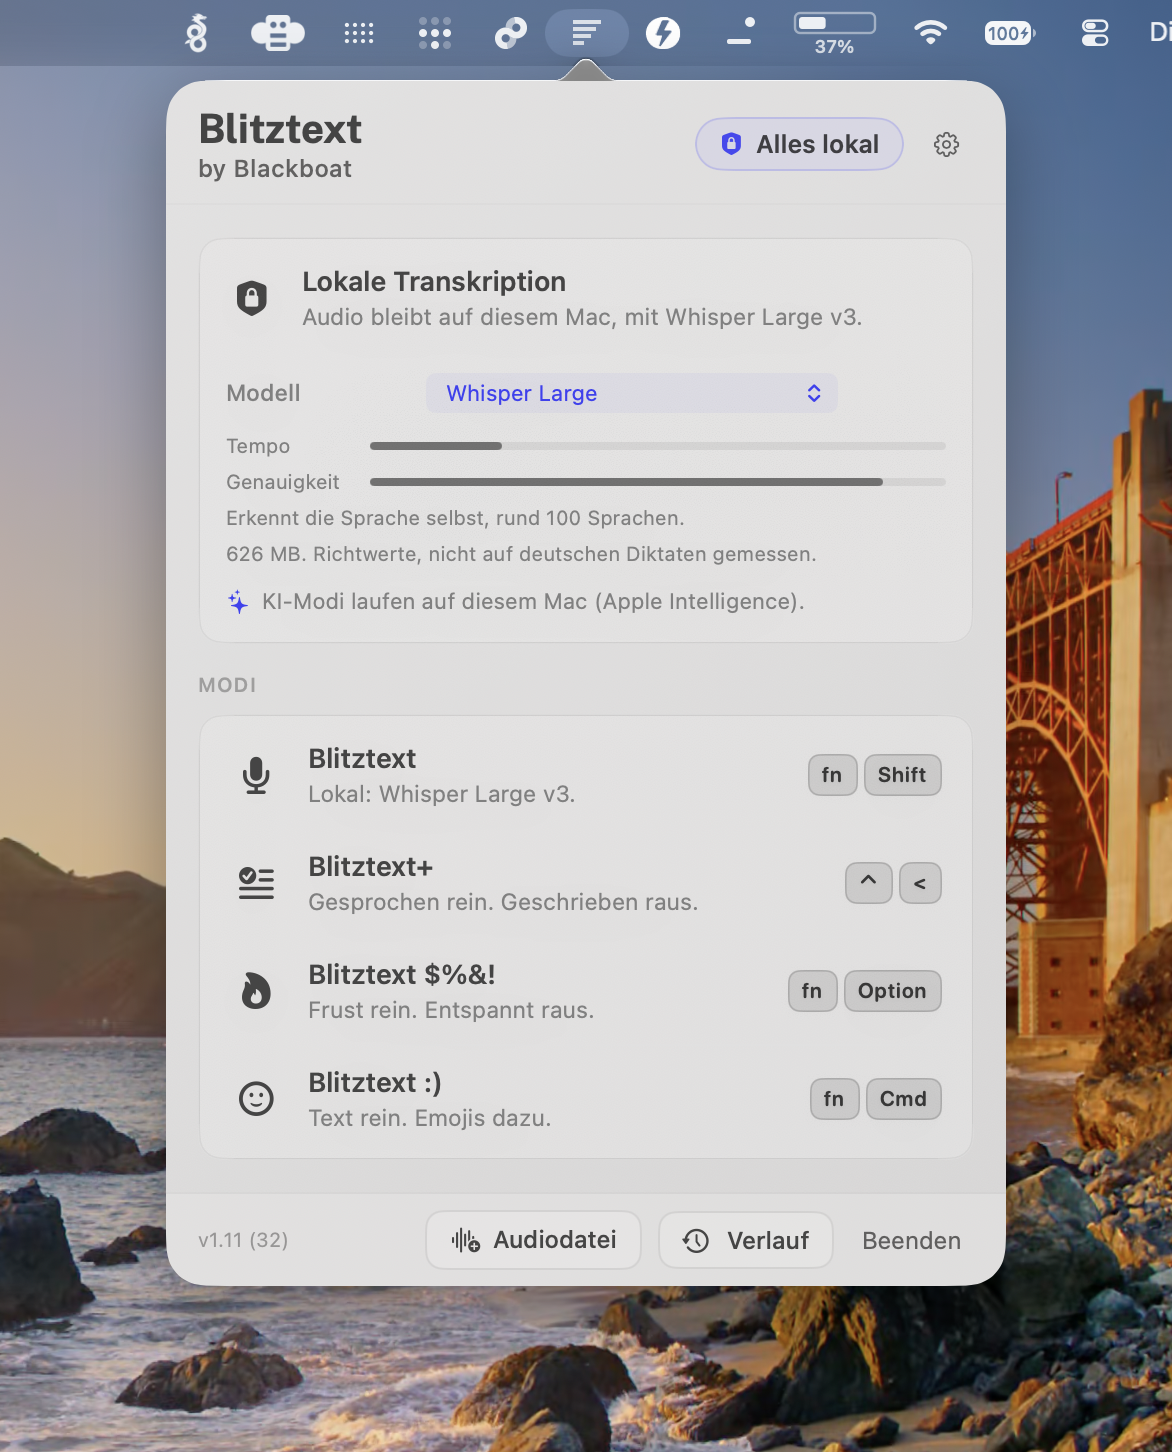
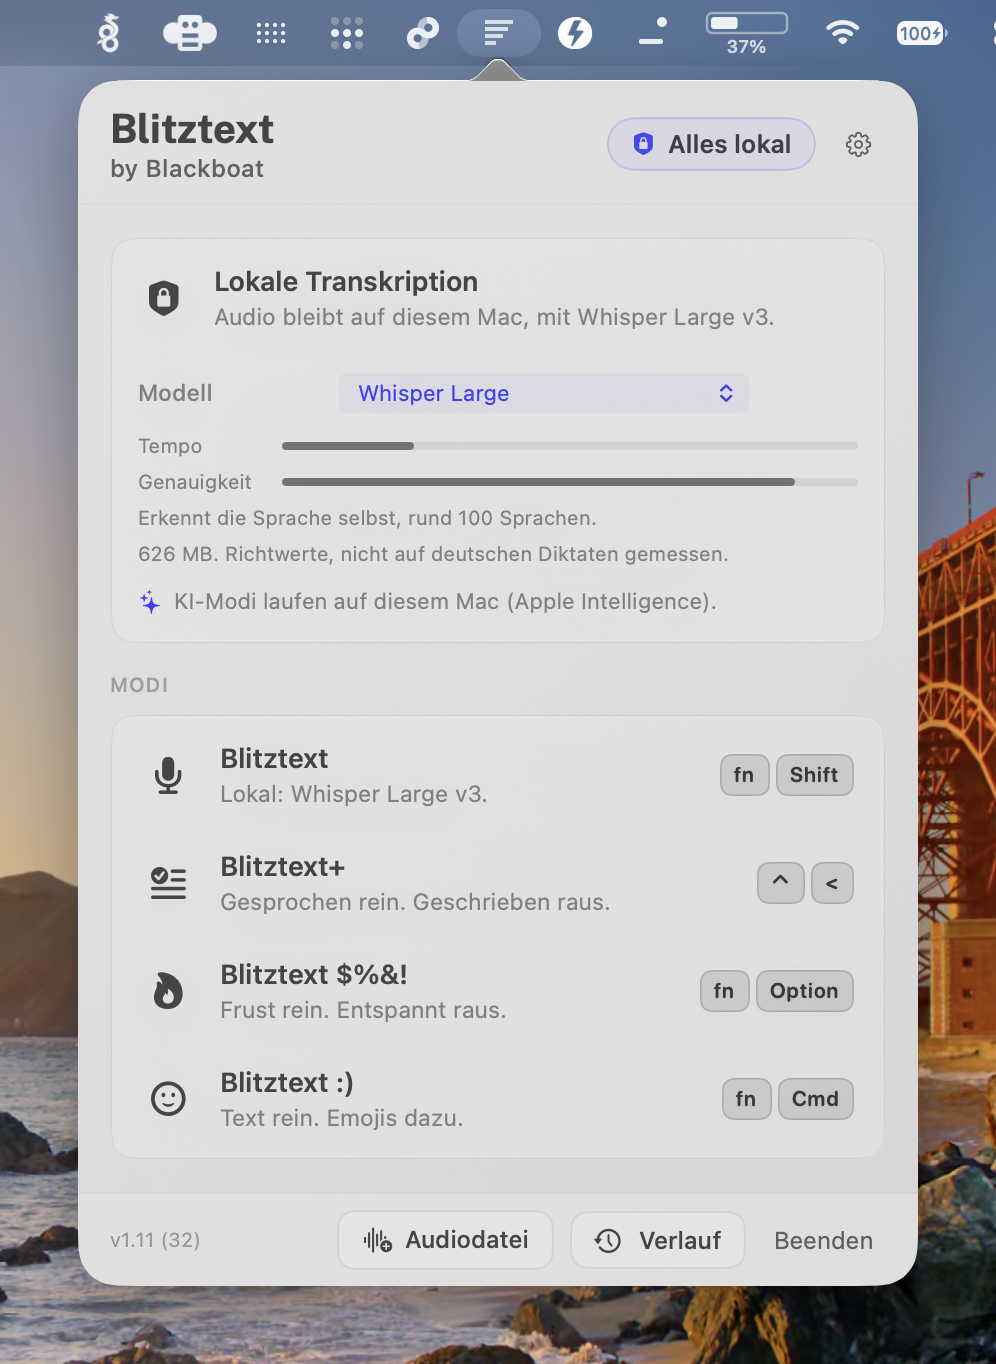
Review fixes for the 1.11 release candidate, build 34
- Safe move to /Applications (copy next to the target, swap in one
  step), not offered on Jamf-managed Macs.
- Pipeline overview names the text at the cursor when the AI modes get it.
- CI runs the unit tests, not only the build.
- README: honest download steps, a note on the personal shortcut in the
  screenshots, captions that match the images, Jamf limitation.
- Screenshots cropped closer to the window.

Claude-Session: https://claude.ai/code/session_01SVtM74YHGzCBwWJF2Ms7gu

diff --git a/BlitztextMac/Services/BlitztextInstallLocationService.swift b/BlitztextMac/Services/BlitztextInstallLocationService.swift
@@ -75,8 +75,16 @@ enum BlitztextInstallLocationService {
         return .unknown
     }
 
+    /// Jamf installs Blitztext into /Applications on managed Macs. There the app neither
+    /// moves itself nor updates itself; device management does both.
+    static let isManagedByJamf: Bool = {
+        let fileManager = FileManager.default
+        return fileManager.fileExists(atPath: "/usr/local/jamf/bin/jamf")
+            || fileManager.fileExists(atPath: "/Library/Application Support/JAMF")
+    }()
+
     static var shouldOfferMoveToApplications: Bool {
-        !currentInstallLocation.isCanonicalInstall
+        !currentInstallLocation.isCanonicalInstall && !isManagedByJamf
     }
 
     static var systemApplicationsDirectoryURL: URL {
@@ -133,20 +141,33 @@ enum BlitztextInstallLocationService {
 
         try ensureDirectoryExists(at: destinationDirectoryURL)
 
-        if FileManager.default.fileExists(atPath: destinationURL.path) {
-            guard replacingExisting else {
-                throw MoveError.destinationExists(destinationURL)
-            }
-            try FileManager.default.removeItem(at: destinationURL)
-        }
-
-        guard FileManager.default.isWritableFile(atPath: destinationDirectoryURL.path) else {
+        let fileManager = FileManager.default
+        guard fileManager.isWritableFile(atPath: destinationDirectoryURL.path) else {
             throw MoveError.destinationNotWritable(destinationDirectoryURL)
         }
 
+        let destinationExists = fileManager.fileExists(atPath: destinationURL.path)
+        if destinationExists && !replacingExisting {
+            throw MoveError.destinationExists(destinationURL)
+        }
+
+        // Copy next to the destination first and swap in one step, so a failed copy
+        // never costs the installation that works.
+        let stagingURL = destinationDirectoryURL
+            .appendingPathComponent(".\(sourceURL.lastPathComponent).incoming-\(UUID().uuidString)")
         do {
-            try FileManager.default.copyItem(at: sourceURL, to: destinationURL)
+            try fileManager.copyItem(at: sourceURL, to: stagingURL)
+            let executable = stagingURL.appendingPathComponent("Contents/MacOS")
+            guard fileManager.fileExists(atPath: executable.path) else {
+                throw CocoaError(.fileReadCorruptFile)
+            }
+            if destinationExists {
+                _ = try fileManager.replaceItemAt(destinationURL, withItemAt: stagingURL)
+            } else {
+                try fileManager.moveItem(at: stagingURL, to: destinationURL)
+            }
         } catch {
+            try? fileManager.removeItem(at: stagingURL)
             throw MoveError.copyFailed(source: sourceURL, destination: destinationURL, underlying: error)
         }
 

diff --git a/BlitztextMac/Features/Settings/PipelineOverviewSection.swift b/BlitztextMac/Features/Settings/PipelineOverviewSection.swift
@@ -12,7 +12,7 @@ struct PipelineOverviewSection: View {
                 model: appState.selectedLocalModelDisplayName,
                 detail: appState.selectedLocalModelIsInstalled
                     ? "Immer lokal auf diesem Mac. Die Sprache verl\u{00E4}sst ihn nie."
-                    : "Noch nicht installiert. Unten unter Lokale Transkription laden.",
+                    : "Noch nicht installiert. Unter Modelle, Spracherkennung laden.",
                 ready: appState.selectedLocalModelIsInstalled
             )
             row(
@@ -40,7 +40,10 @@ struct PipelineOverviewSection: View {
             return "Lokal auf diesem Mac, ohne Internet."
         }
         if appState.providerInUse != nil {
-            return "\u{00DC}ber deinen API-Key. Nur der erkannte Text geht an den Anbieter, nie die Sprache."
+            // Must match the setting: with cursor context on, that text goes along too.
+            return appState.appSettings.aiSeesFieldContext
+                ? "\u{00DC}ber deinen API-Key. Der erkannte Text und der Text am Cursor gehen an den Anbieter, nie die Sprache."
+                : "\u{00DC}ber deinen API-Key. Nur der erkannte Text geht an den Anbieter, nie die Sprache."
         }
         return "Apple Intelligence einschalten oder unter Modelle einen Modell-Anbieter mit API-Key hinterlegen. Wortgenaues Diktieren geht auch ohne."
     }

diff --git a/BlitztextMac/Features/Settings/AppModeRulesSection.swift b/BlitztextMac/Features/Settings/AppModeRulesSection.swift
@@ -41,7 +41,7 @@ struct AppModeRulesSection: View {
 
     var body: some View {
         SettingsSection(title: "Modus je App") {
-            Text("Das Blitztext-K\u{00FC}rzel (\(appState.hotkeyLabel(for: .tapTalk))) kann je App oder Website automatisch einen anderen Modus nutzen, zum Beispiel Blitztext+ in Gmail, w\u{00E4}hrend es in Slack wortgenau bleibt. Die \u{00FC}brigen K\u{00FC}rzel bleiben wie sie sind.")
+            Text("Das Blitztext-K\u{00FC}rzel (\(appState.hotkeyLabel(for: .tapTalk))) kann je App oder Website automatisch einen anderen Modus nutzen, zum Beispiel Blitztext+ in Gmail. \u{00DC}berall sonst bleibt es wortgenau, und die \u{00FC}brigen K\u{00FC}rzel bleiben wie sie sind.")
                 .font(.system(size: 10.5))
                 .foregroundStyle(.secondary)
                 .fixedSize(horizontal: false, vertical: true)

diff --git a/BlitztextMac/Services/AppUpdateService.swift b/BlitztextMac/Services/AppUpdateService.swift
@@ -56,12 +56,9 @@ final class AppUpdateService {
     }
 
     /// Jamf installs Blitztext on managed Macs. Sparkle stays off there, so nobody gets a
-    /// second update channel or an admin password prompt.
-    let isManagedByDeviceManagement: Bool = {
-        let fileManager = FileManager.default
-        return fileManager.fileExists(atPath: "/usr/local/jamf/bin/jamf")
-            || fileManager.fileExists(atPath: "/Library/Application Support/JAMF")
-    }()
+    /// second update channel or an admin password prompt. This applies to the whole Mac,
+    /// also to a copy installed by hand.
+    let isManagedByDeviceManagement = BlitztextInstallLocationService.isManagedByJamf
 
     /// Sparkle runs: the build has a feed and key, and no device management does the job.
     var updatesInApp: Bool {

diff --git a/README.md b/README.md
@@ -71,13 +71,13 @@ Keyboards without `fn`: set your own shortcut per mode in the settings.
 | | |
 |---|---|
 | <img src="docs/screenshots/settings-models.png" width="400" alt="Settings, Modelle: local speech recognition and the AI modes"> | <img src="docs/screenshots/settings-general.png" width="400" alt="Settings, Allgemein: how Blitztext works, shortcuts, sound off while recording"> |
-| Speech recognition and AI modes on your Mac | Shortcuts, sound off while recording, cursor fit |
+| Speech recognition and AI modes on your Mac | How Blitztext works, shortcuts, sound off while recording |
 
-The app is in German for now.
+The app is in German for now. The screenshots show a personal shortcut for Blitztext+ (`⌃<`) instead of `fn + Control`.
 
 ## Install
 
-1. [Download the ZIP](https://github.com/cmagnussen/blitztext-app/releases/latest), unpack it and move **Blitztext.app** to **Applications**.
+1. Open the [latest release](https://github.com/cmagnussen/blitztext-app/releases/latest), download the ZIP under "Assets", unpack it and move **Blitztext.app** to **Applications**.
 2. Open Blitztext. It lives in the menu bar.
 3. Allow **Microphone** and **Accessibility** (needed to paste into other apps).
 4. In the settings (**Modelle**), load a local speech model once. Parakeet v3 is recommended on Apple silicon, about 500 MB.
@@ -103,6 +103,7 @@ Blitztext has no backend and collects no data. Details in [docs/privacy.md](docs
 - **Paste stops after an update or a rebuild:** open System Settings > Privacy & Security > Accessibility, remove the old Blitztext entry, add the current app and restart it.
 - **First dictation after a macOS update** can take a few minutes while macOS prepares the model for the Neural Engine. Blitztext shows a hint; keep it running.
 - **Whisper on silence** sometimes invents phrases like "Thank you." Blitztext filters the known ones.
+- **Macs managed with Jamf:** in-app updates are off on the whole Mac, also for a copy you installed yourself. There, your device management handles updates.
 
 More in [docs/setup.md](docs/setup.md) and [docs/local-models.md](docs/local-models.md).
 
